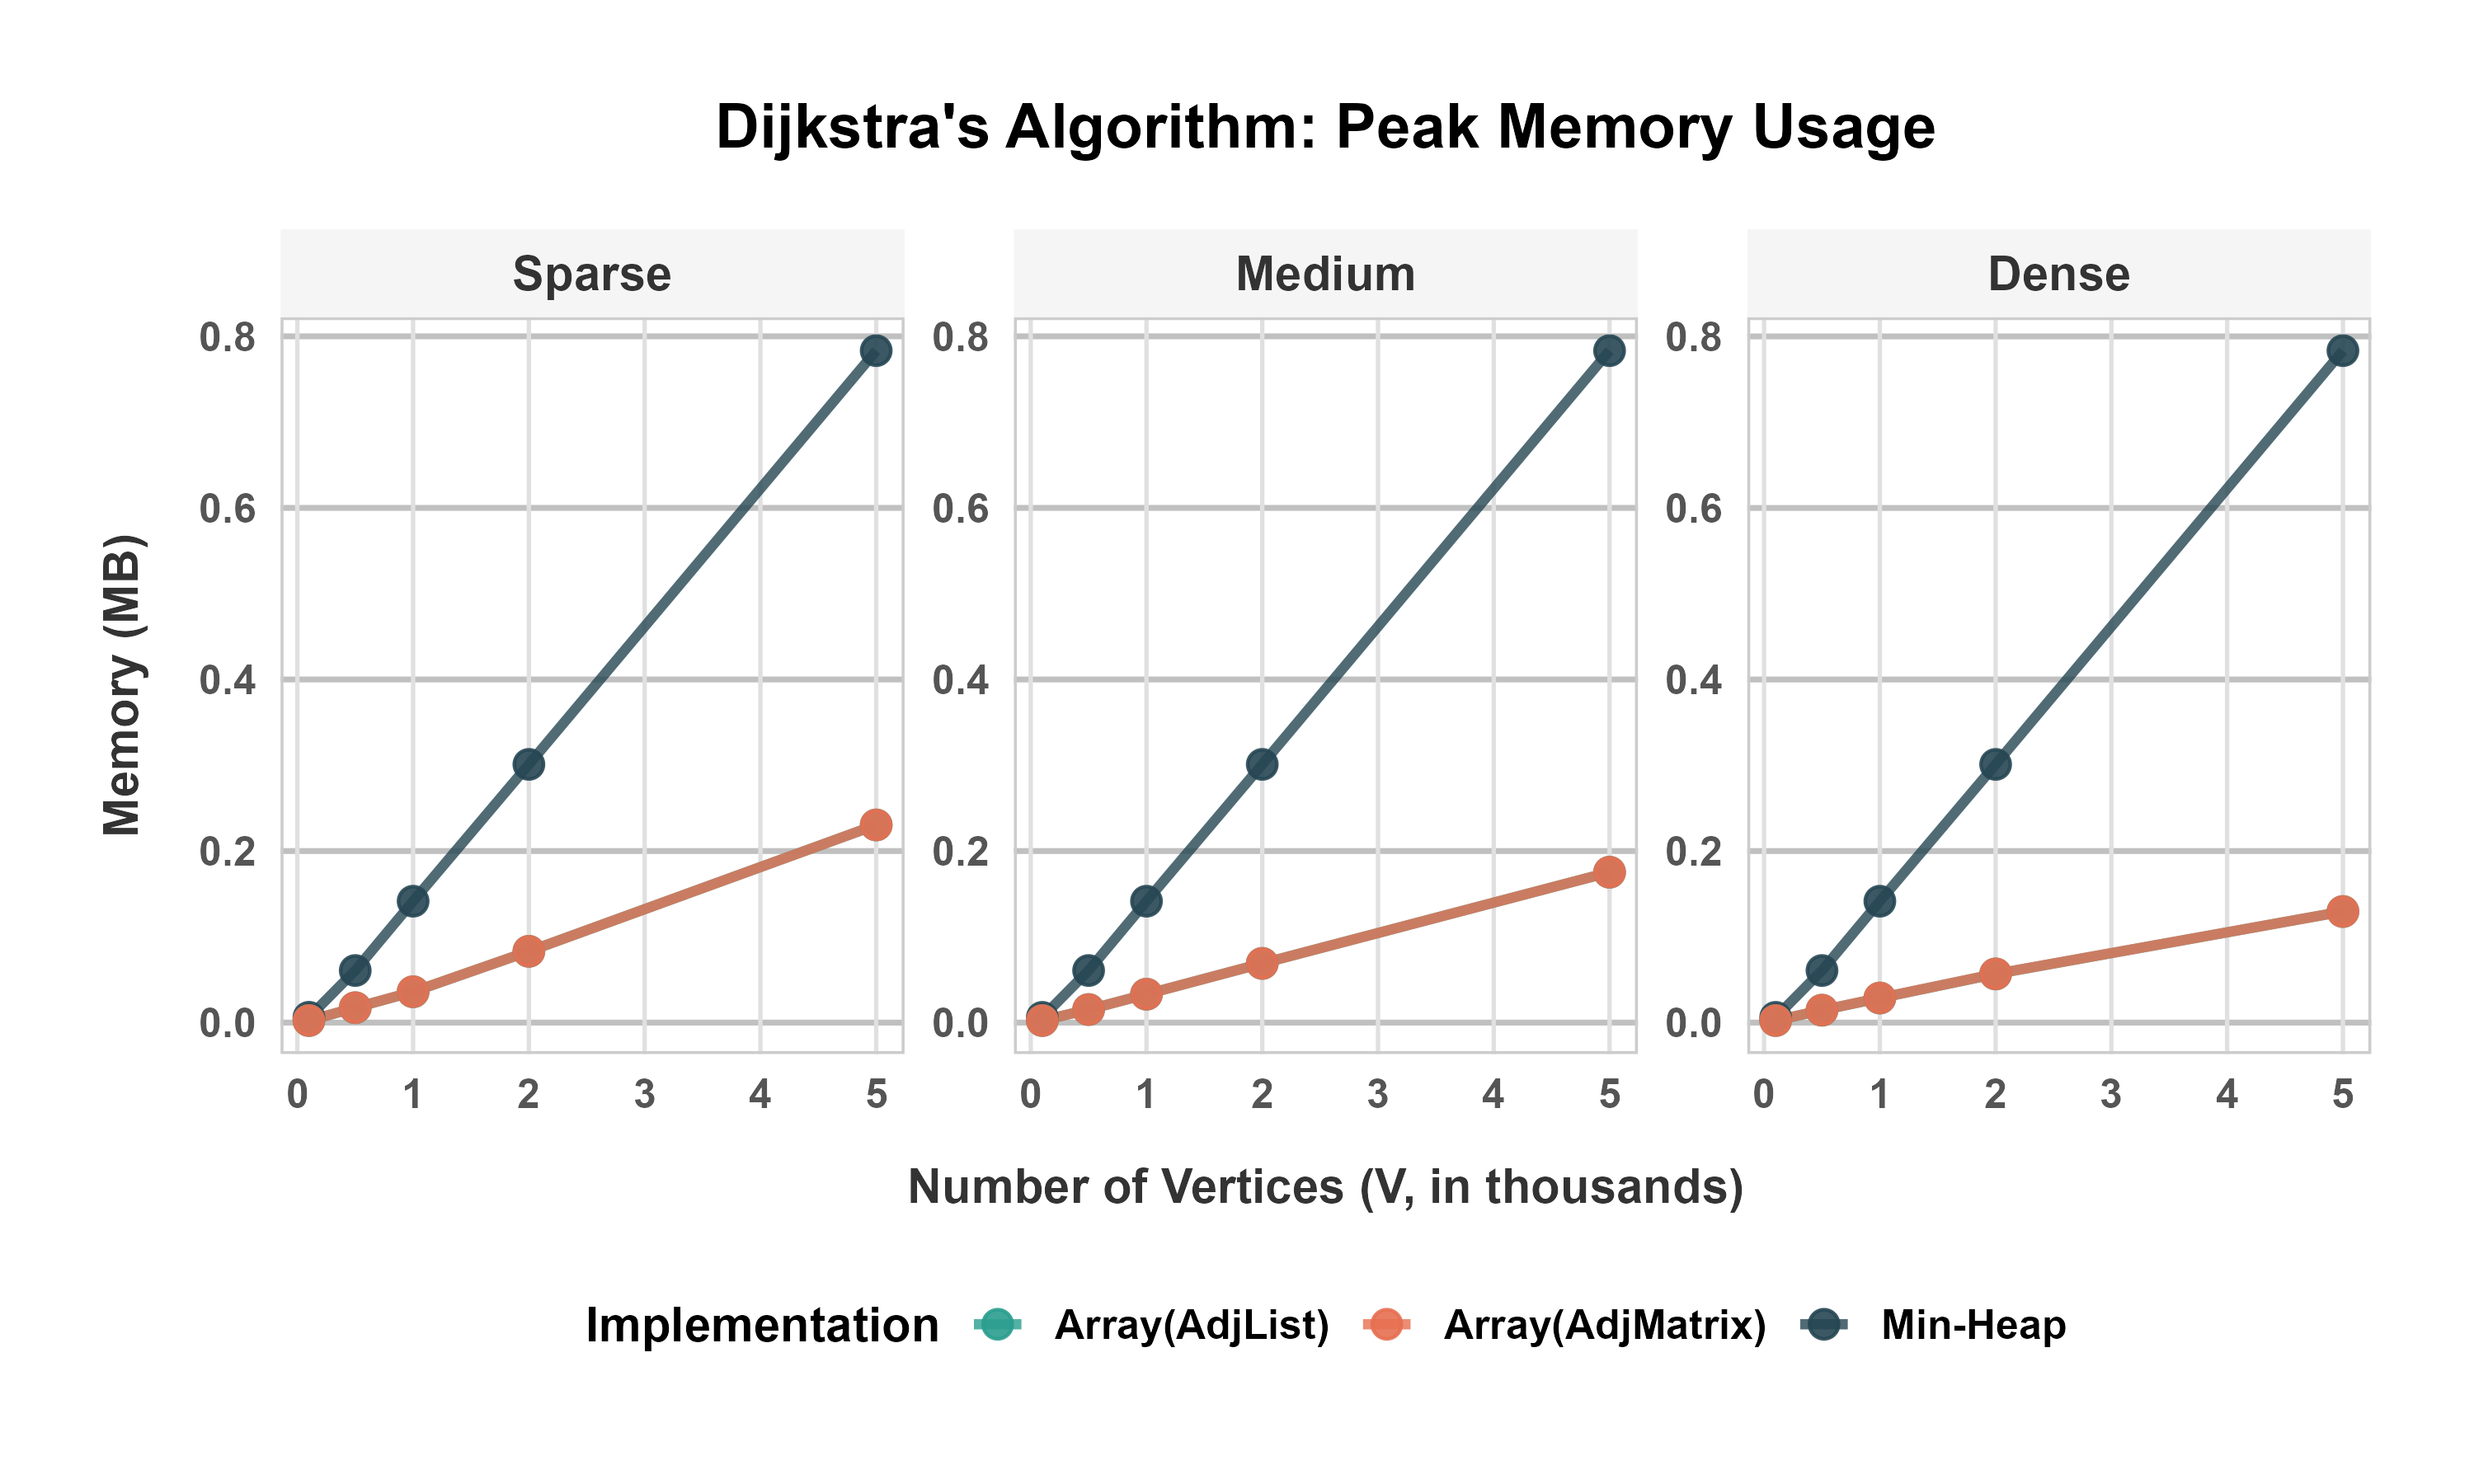
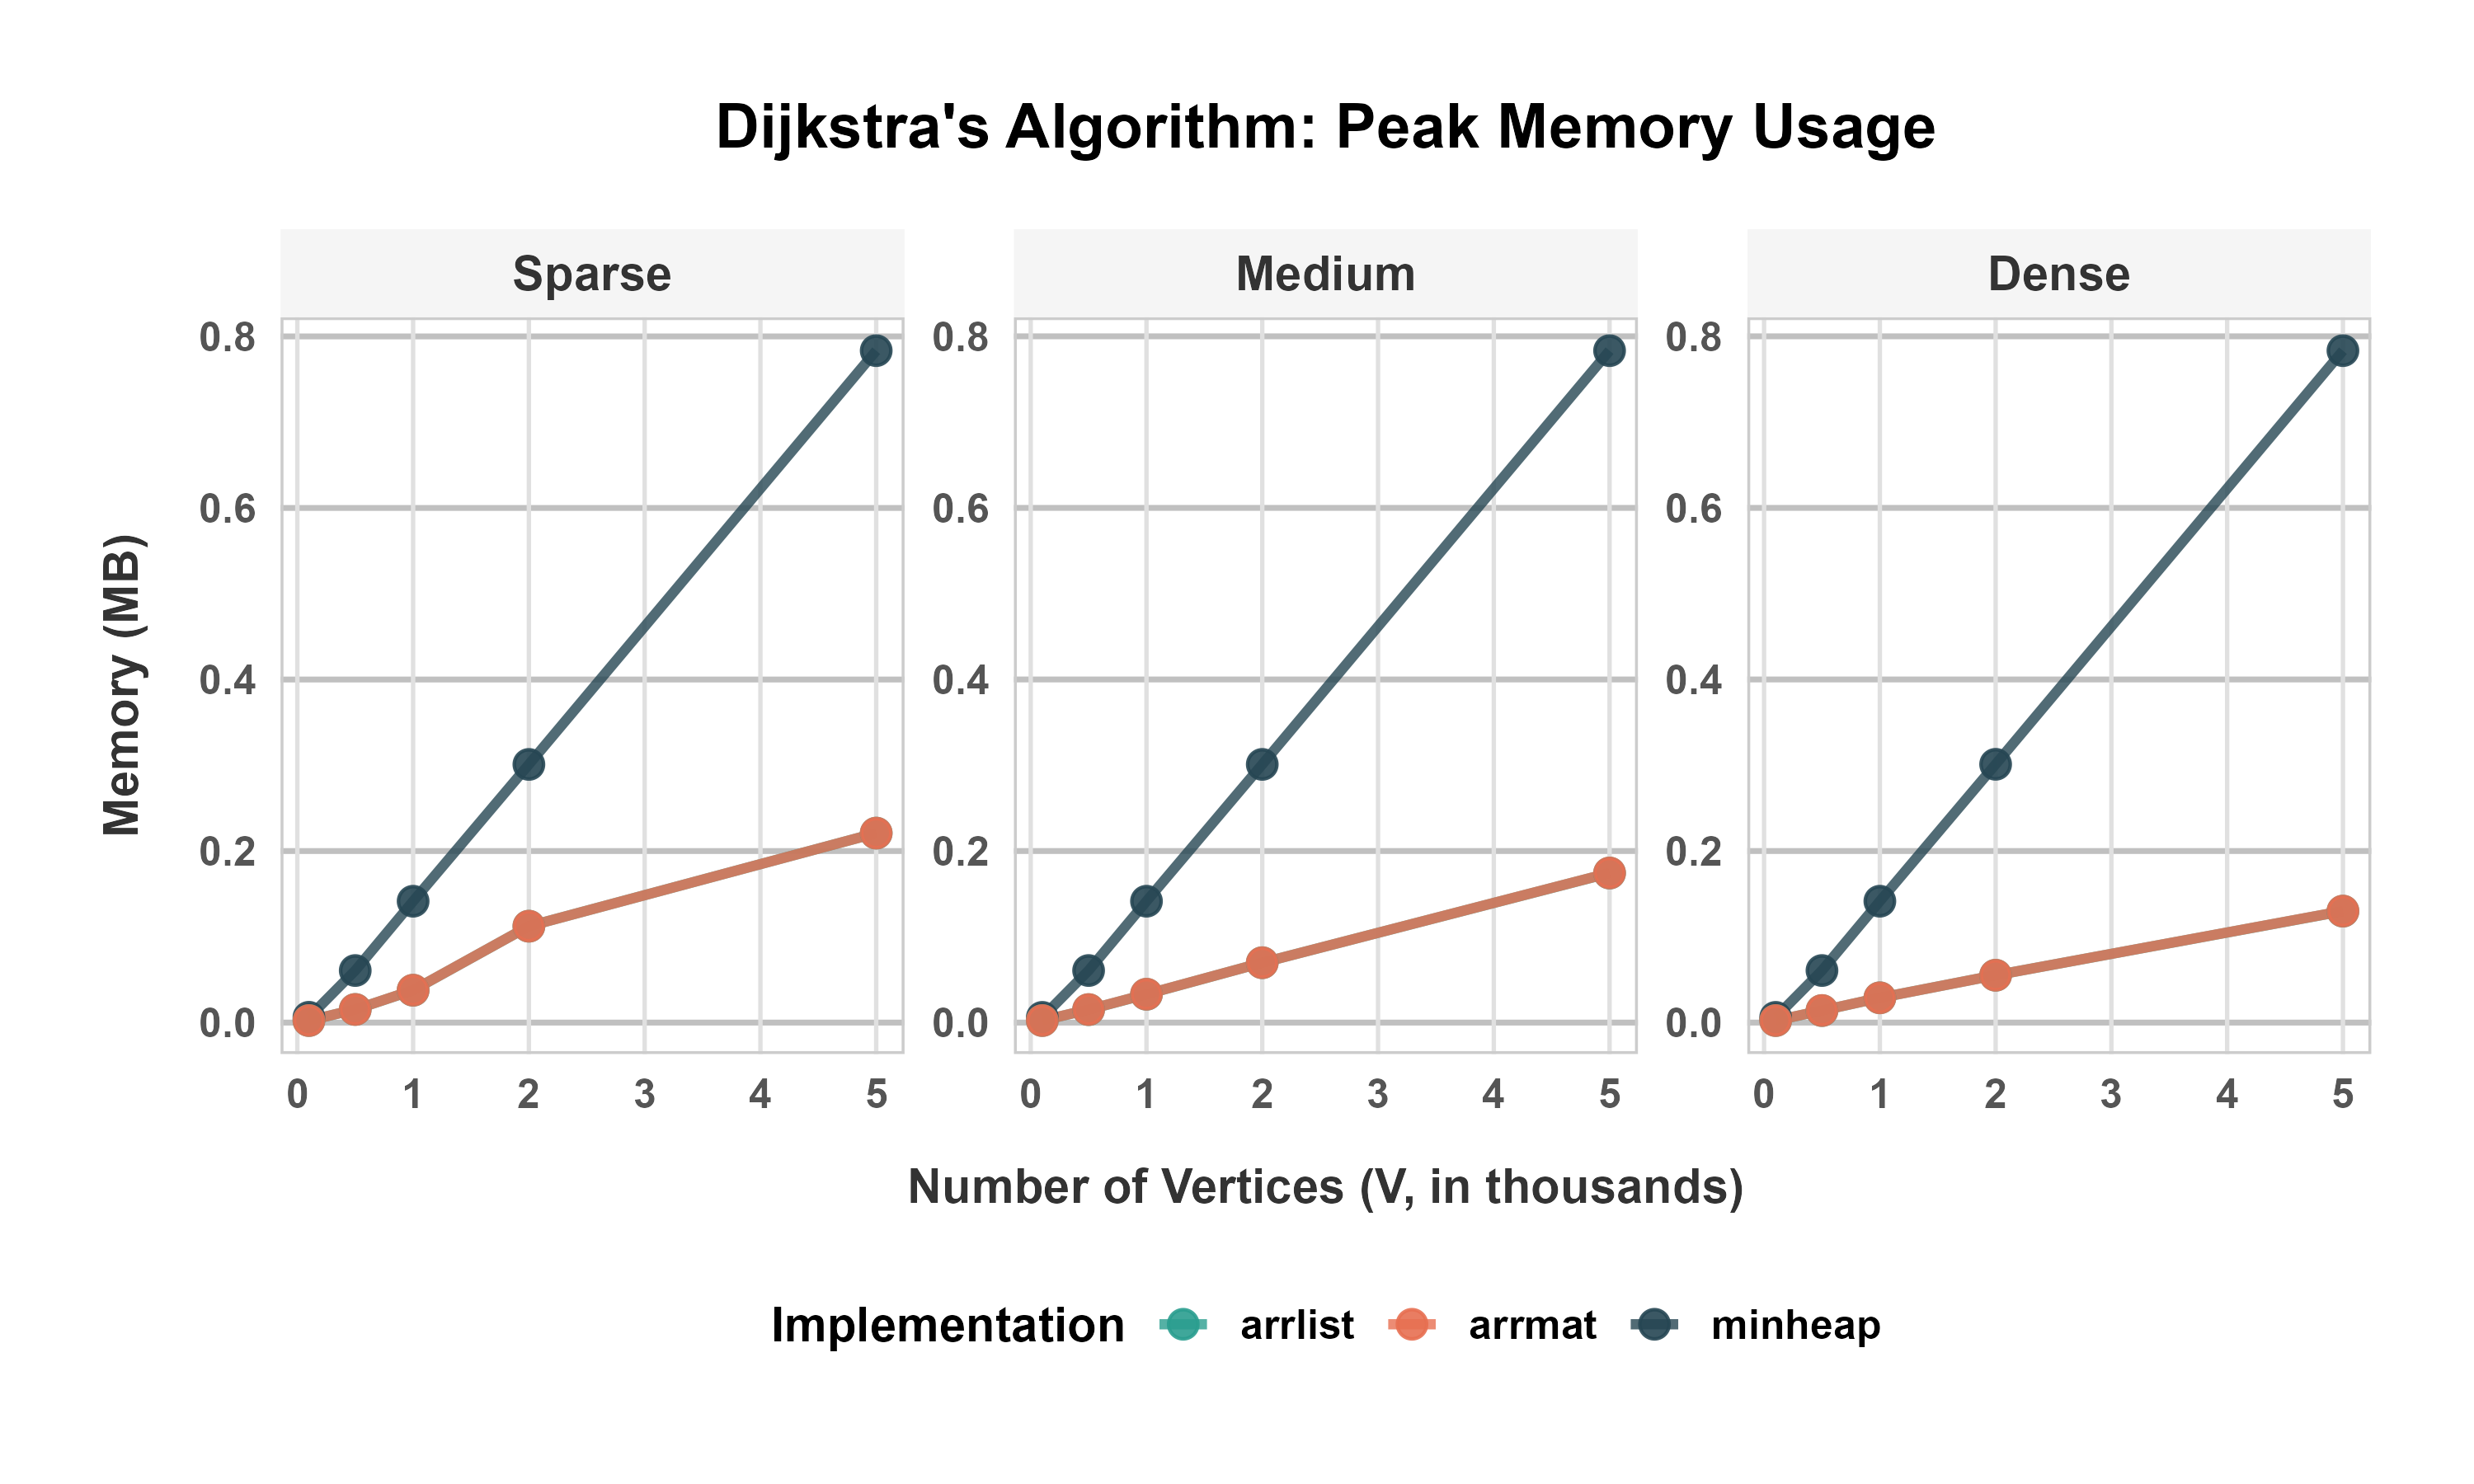
Uploaded benchmark data, minor output tweak in main

Changed region(s): [[0.217, 0.8711, 0.837, 0.9022], [0.186, 0.56, 0.372, 0.6533], [0.155, 0.6533, 0.186, 0.6844]]

diff --git a/main.py b/main.py
@@ -229,7 +229,7 @@ def main():
               print(f"Please use one of the valid execution modes.")
               print(f"Run 'python main.py --help' to see all available commands.\n")
           else:
-              print(f"\n❌ ERROR: {message}\n")
+              print(f"\nERROR: {message}\n")
           sys.exit(1)
           
     parser.error = custom_error